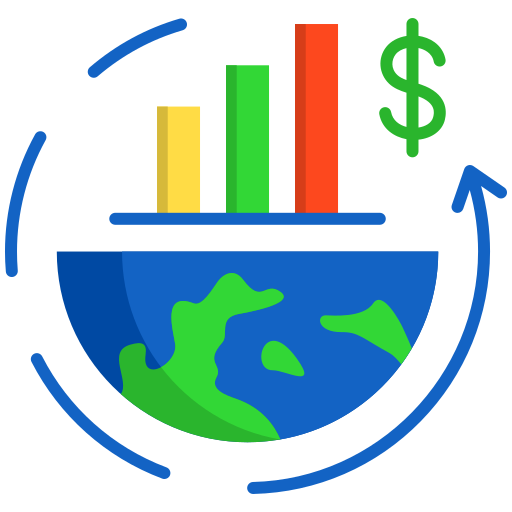
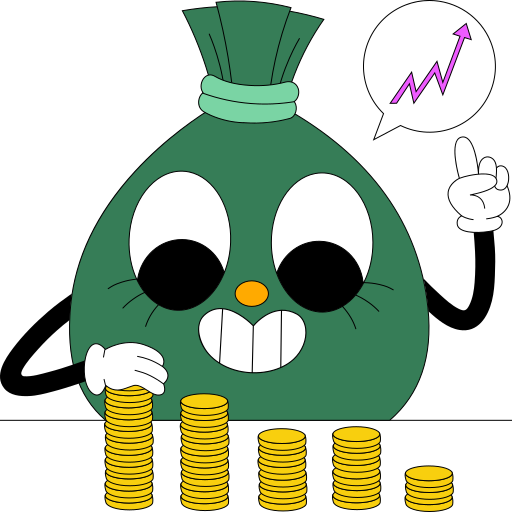
index.html 화면의 이미지 변경

diff --git a/index.html b/index.html
@@ -82,7 +82,11 @@
         </div>
         <div class="resume-box">
           <h2 class="title">
-            <img src="main-image/bulb.png" class="menu-icon" alt="bulb icon" />
+            <img
+              src="main-image/knowledge.png"
+              class="menu-icon"
+              alt="knowledge icon"
+            />
             <a href="trivia-board-2.html" id="trivia-link"
               >오늘의 한줄 지식/잡학</a
             >
@@ -102,11 +106,7 @@
         </div>
         <div class="resume-box">
           <h2 class="title">
-            <img
-              src="main-image/target.png"
-              class="menu-icon"
-              alt="target icon"
-            />
+            <img src="main-image/tech.png" class="menu-icon" alt="tech icon" />
             <a href="tech-tips-board.html">오늘의 기술 팁</a>
           </h2>
         </div>
@@ -123,9 +123,9 @@
         <div class="resume-box">
           <h2 class="title">
             <img
-              src="main-image/growth.png"
+              src="main-image/self-learning.png"
               class="menu-icon"
-              alt="growth icon"
+              alt="self-learning icon"
             />
             <a href="self-improvement-board.html">오늘의 자기계발</a>
           </h2>
